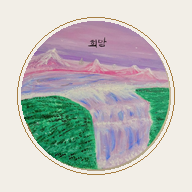
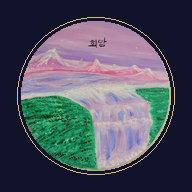
v11: Midnight Gallery

diff --git a/styles.css b/styles.css
@@ -172,22 +172,26 @@
 
 
 :root {
-  --paper: #f2eee7;
-  --paper-2: #e9e3d9;
-  --card: #fbf9f5;
-  --ink: #281830;
-  --ink-soft: #4b3f52;
-  --mute: #675c6c;
-  --lav: #9b7ac4;
-  --lav-text: #6e4fa0;
-  --lav-pale: #d9cbeb;
-  --blue: #536f82;
-  --brass: #a77e43;
-  --brass-text: #7a5a22;
-  --brass-pale: #e2c99a;
-  --night: #22152b;
-  --night-2: #2e1d3a;
-  --line: rgba(40, 24, 48, .14);
+  /* "Midnight Gallery": the night blue of her mountains, lit by the colors of her paintings */
+  --paper: #10132a;
+  --paper-2: #1a1f3f;
+  --card: #f7f2e9;
+  --ink: #f4efe6;
+  --ink-soft: #cdc7da;
+  --mute: #a39db8;
+  --lav: #b9a0ea;
+  --lav-text: #c9b4f2;
+  --lav-pale: #ddd0f6;
+  --blue: #7c9cc4;
+  --brass: #d9b878;
+  --brass-text: #e3c58f;
+  --brass-pale: #ecd3a3;
+  --turq: #8fe0d6;
+  --rose: #f4b2c9;
+  --glow: linear-gradient(115deg, #9be7dc 0%, #cbb7f4 52%, #f6b8cf 100%);
+  --night: #0a0d20;
+  --night-2: #22284a;
+  --line: rgba(255, 255, 255, .12);
   --line-light: rgba(255, 255, 255, .16);
 
   --serif: "Noto Serif Hebrew", "Frank Ruhl Libre", "Times New Roman", serif;
@@ -198,7 +202,7 @@
   --header-h: 72px;
   --wrap: 1280px;
   --gutter: 24px;
-  --mat-shadow: 0 1px 0 rgba(40, 24, 48, .06), 0 28px 60px -32px rgba(40, 24, 48, .55);
+  --mat-shadow: 0 30px 70px -30px rgba(0, 0, 0, .8), 0 0 90px -20px rgba(255, 238, 205, .16);
 }
 
 *, *::before, *::after { box-sizing: border-box; }
@@ -338,7 +342,7 @@ bdi[lang="en"] { font-family: inherit; }
   font-family: var(--serif); font-weight: 300; color: var(--ink);
   font-size: clamp(3.1rem, 7.1vw, 6.6rem); line-height: 1.02; letter-spacing: -.02em; margin-bottom: 34px;
 }
-.display > span:not(.w) { display: block; color: var(--lav-text); }
+.display .accent { display: block; color: var(--lav-text); }
 .hero .lead { max-width: 30em; margin-bottom: 40px; }
 .hero-actions { display: flex; flex-wrap: wrap; align-items: center; gap: 18px 34px; }
 
@@ -855,3 +859,87 @@ main:focus { outline: none; }
 
 @media (max-width: 600px) { .js .hero-art .round img { animation: none; } }
 .sr-only { position: absolute; width: 1px; height: 1px; margin: -1px; overflow: hidden; clip: rect(0 0 0 0); white-space: nowrap; border: 0; }
+
+
+/* ================= Midnight Gallery theme ================= */
+::selection { background: var(--lav-pale); color: #10132a; }
+.skip-link { background: var(--card); color: #10132a; }
+
+/* Luminous accents taken from the paintings */
+.h2 em, .h3 em, .display .accent {
+  background: var(--glow); -webkit-background-clip: text; background-clip: text; color: transparent;
+}
+.display .accent { padding-bottom: .06em; }
+@supports not ((-webkit-background-clip: text) or (background-clip: text)) { .h2 em, .h3 em, .display .accent { background: none; color: var(--lav-pale); } }
+
+/* Buttons */
+.btn-primary { --bg: var(--glow); --fg: #10132a; background: var(--glow); box-shadow: 0 12px 40px -14px rgba(203, 183, 244, .65); font-weight: 600; }
+.btn-primary:hover { --bg: var(--glow); box-shadow: 0 18px 50px -12px rgba(203, 183, 244, .85); filter: brightness(1.06); }
+.btn-light { --bg: var(--card); --fg: #10132a; }
+.btn-ghost { --bd: rgba(255, 255, 255, .3); }
+.header-cta { background: var(--glow); color: #10132a; font-weight: 600; }
+.header-cta:hover { background: var(--glow); filter: brightness(1.06); }
+
+/* Header */
+.site-header { background: rgba(16, 19, 42, .9); -webkit-backdrop-filter: blur(14px); backdrop-filter: blur(14px); }
+@media (max-width: 960px) { .site-header { background: rgba(16, 19, 42, .97); -webkit-backdrop-filter: none; backdrop-filter: none; } }
+
+/* Hero: a dark room, the painting as the light source */
+.hero {
+  background:
+    radial-gradient(55% 70% at 22% 42%, rgba(143, 224, 214, .13), transparent 70%),
+    radial-gradient(45% 55% at 88% 8%, rgba(244, 178, 201, .12), transparent 70%),
+    radial-gradient(60% 60% at 70% 100%, rgba(185, 160, 234, .1), transparent 70%),
+    var(--paper);
+}
+.hero::before { opacity: .35; mix-blend-mode: soft-light; }
+.halo { border-color: rgba(217, 184, 120, .35); background: radial-gradient(circle, rgba(255, 236, 200, .2) 0, rgba(255, 236, 200, 0) 62%); }
+.halo::after { border-color: rgba(217, 184, 120, .16); }
+.round { box-shadow: 0 40px 90px -30px rgba(0, 0, 0, .85), 0 0 120px -10px rgba(255, 236, 200, .25); }
+.mat img { outline-color: rgba(16, 19, 42, .1); }
+.art-open:hover .mat { box-shadow: 0 40px 80px -30px rgba(0, 0, 0, .9), 0 0 120px -10px rgba(255, 236, 200, .28); }
+
+/* Works */
+.rail-btn { border-color: rgba(255, 255, 255, .3); }
+.rail-btn:hover:not(:disabled) { background: var(--card); border-color: var(--card); color: #10132a; }
+.rail { scrollbar-color: rgba(255, 255, 255, .25) transparent; }
+.status { color: #8fe0b4; }
+
+/* Paths */
+.path-light { background: var(--night-2); border-color: var(--line); }
+.path-dark { background: var(--night); }
+.paths { background: var(--paper-2); }
+.chips li { border-color: rgba(255, 255, 255, .2); }
+
+/* FAQ */
+.faq-list details[open] summary::after { background-color: rgba(255, 255, 255, .06); }
+.faq-list summary::after { border-color: rgba(255, 255, 255, .28); }
+
+/* Contact form stays a lit paper card */
+.contact-form {
+  --ink: #281830; --ink-soft: #4b3f52; --mute: #675c6c; --lav-text: #6e4fa0; --paper: #f2eee7;
+  --line: rgba(40, 24, 48, .14);
+  --glow: linear-gradient(115deg, #2a2f5c 0%, #3d2f66 55%, #5a2f58 100%);
+  color: var(--ink);
+}
+.contact-form .btn-primary { --fg: #fff; color: #fff; box-shadow: 0 14px 30px -14px rgba(16, 19, 42, .7); }
+.contact-form .link-arrow { color: var(--ink); }
+.contact-form :focus-visible { outline-color: var(--lav-text); }
+.contact { background: var(--night); }
+
+/* Footer, lightbox, menu */
+.site-footer { background: #070918; }
+.lightbox-close { color: #10132a; }
+.lightbox::backdrop { background: rgba(7, 9, 24, .95); }
+.lb-nav { background: rgba(7, 9, 24, .5); }
+@media (max-width: 960px) { .main-nav { background: var(--paper); } }
+.contact::before { opacity: .16; }
+
+/* Codex pass: clearer rooms, calmer glow */
+.about, .voices { background: var(--paper-2); }
+.path-light { background: #23294a; border-color: rgba(255, 255, 255, .2); }
+.process { background: linear-gradient(180deg, #1a1f3f 0%, var(--night) 28%); }
+.btn-primary { box-shadow: 0 7px 24px -16px rgba(203, 183, 244, .42); }
+.btn-primary:hover { box-shadow: 0 12px 32px -14px rgba(203, 183, 244, .6); }
+.contact::before { opacity: .08; }
+.display .accent.w { display: block; }

diff --git a/index.html b/index.html
@@ -6,7 +6,7 @@
   <meta name="viewport" content="width=device-width, initial-scale=1, viewport-fit=cover">
   <title>Yuval's Light Codes · תקשור, אנרגיה ויצירה</title>
   <meta name="description" content="Yuval's Light Codes: תקשור אישי בטלפון, Zoom או WhatsApp, וציורי Light Codes אנרגטיים שנוצרים מתוך הקשבה, צבע ותנועה. מוכנים או בהתאמה אישית.">
-  <meta name="theme-color" content="#f2eee7">
+  <meta name="theme-color" content="#10132a">
   <link rel="icon" href="icons/icon.svg" type="image/svg+xml">
   <link rel="icon" href="icons/icon-192.png" sizes="192x192" type="image/png">
   <link rel="apple-touch-icon" href="icons/apple-touch-icon.png">
@@ -50,7 +50,7 @@
   <link rel="preload" as="font" type="font/woff2" href="fonts/NotoSerifHebrew-hebrew-48a293.woff2" crossorigin>
   <link rel="preload" as="font" type="font/woff2" href="fonts/Heebo-hebrew-77da62.woff2" crossorigin>
   <link rel="preload" as="image" type="image/avif" imagesrcset="img/art-hope-round-480.avif 480w, img/art-hope-round-640.avif 640w, img/art-hope-round.avif 976w" imagesizes="(max-width: 600px) 76vw, (max-width: 960px) 420px, 500px" fetchpriority="high">
-  <link rel="stylesheet" href="styles.css?v=1792340576">
+  <link rel="stylesheet" href="styles.css?v=1792341441">
 </head>
 <body>
   <a class="skip-link" href="#main">דילוג לתוכן</a>
@@ -84,13 +84,13 @@
 
     <!-- HERO -->
     <section class="hero" aria-labelledby="hero-title">
-      <p class="wrap" role="note" style="margin:0 auto 28px;text-align:center"><span style="display:inline-block;padding:6px 16px;border-radius:999px;background:#22152b;color:#f3ecf7;font-size:14px;line-height:1.5">טיוטה: הצעה לעיצוב חדש, עדיין לא האתר הרשמי</span></p>
+      <p class="wrap" role="note" style="margin:0 auto 28px;text-align:center"><span style="display:inline-block;padding:6px 16px;border-radius:999px;background:#f7f2e9;color:#10132a;font-size:14px;line-height:1.5">טיוטה: הצעה לעיצוב חדש, עדיין לא האתר הרשמי</span></p>
       <div class="wrap hero-grid">
         <div class="hero-copy">
           <p class="kicker"><span>תקשור</span><span>אנרגיה</span><span>יצירה</span></p>
           <h1 id="hero-title" class="display">
             יש בתוכך מקום
-            <span>שיודע.</span>
+            <span class="accent">שיודע.</span>
           </h1>
           <p class="lead">תקשור אישי וציורי <bdi lang="en">Light Codes</bdi> שנוצרים מתוך הקשבה, צבע ותנועה. מרחב שמזהה כשמשהו מבקש להשתנות, עוד לפני שהמילים מגיעות.</p>
           <div class="hero-actions">
@@ -402,6 +402,6 @@
     <button class="lightbox-close" type="button" aria-label="סגירה">×</button>
   </dialog>
 
-  <script src="main.js?v=1792340576" defer></script>
+  <script src="main.js?v=1792341441" defer></script>
 </body>
 </html>

diff --git a/main.js b/main.js
@@ -71,7 +71,14 @@ function splitWords(el) {
   const nodes = [];
   while (walker.nextNode()) if (walker.currentNode.textContent.trim()) nodes.push(walker.currentNode);
   let i = 0;
+  // Accent phrases (<em>, the hero's second line) move as one piece so their gradient stays continuous
+  const accents = new Set();
   for (const node of nodes) {
+    const accent = node.parentElement.closest("em, .accent");
+    if (accent && el.contains(accent)) {
+      if (!accents.has(accent)) { accents.add(accent); accent.classList.add("w"); accent.style.setProperty("--i", i++); }
+      continue;
+    }
     const frag = document.createDocumentFragment();
     for (const part of node.textContent.split(/(\s+)/)) {
       if (!part) continue;

diff --git a/404.html b/404.html
@@ -5,7 +5,7 @@
   <meta name="viewport" content="width=device-width, initial-scale=1, viewport-fit=cover">
   <title>הדף לא נמצא · Yuval's Light Codes</title>
   <meta name="robots" content="noindex">
-  <meta name="theme-color" content="#f2eee7">
+  <meta name="theme-color" content="#10132a">
   <!-- Served at any missing path: anchor relative URLs at the site root (GitHub project page or own domain) -->
   <script>document.write('<base href="' + (location.pathname.indexOf("/yuval-light-codes/") === 0 ? "/yuval-light-codes/" : "/") + '">');</script>
   <link rel="icon" href="icons/icon.svg" type="image/svg+xml">
